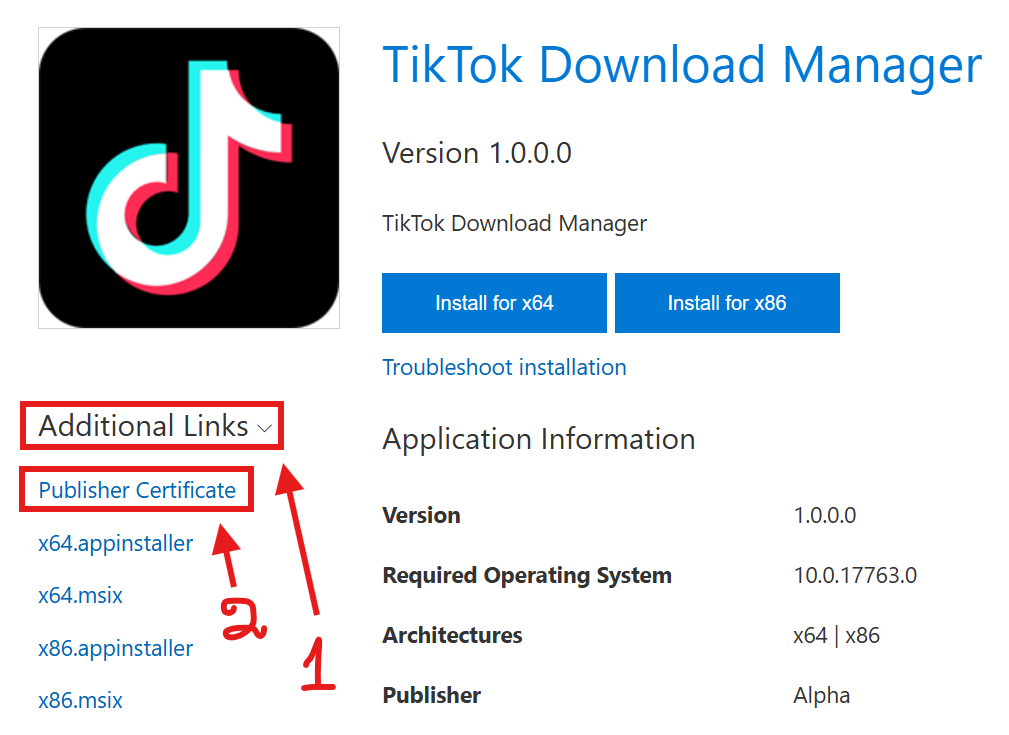
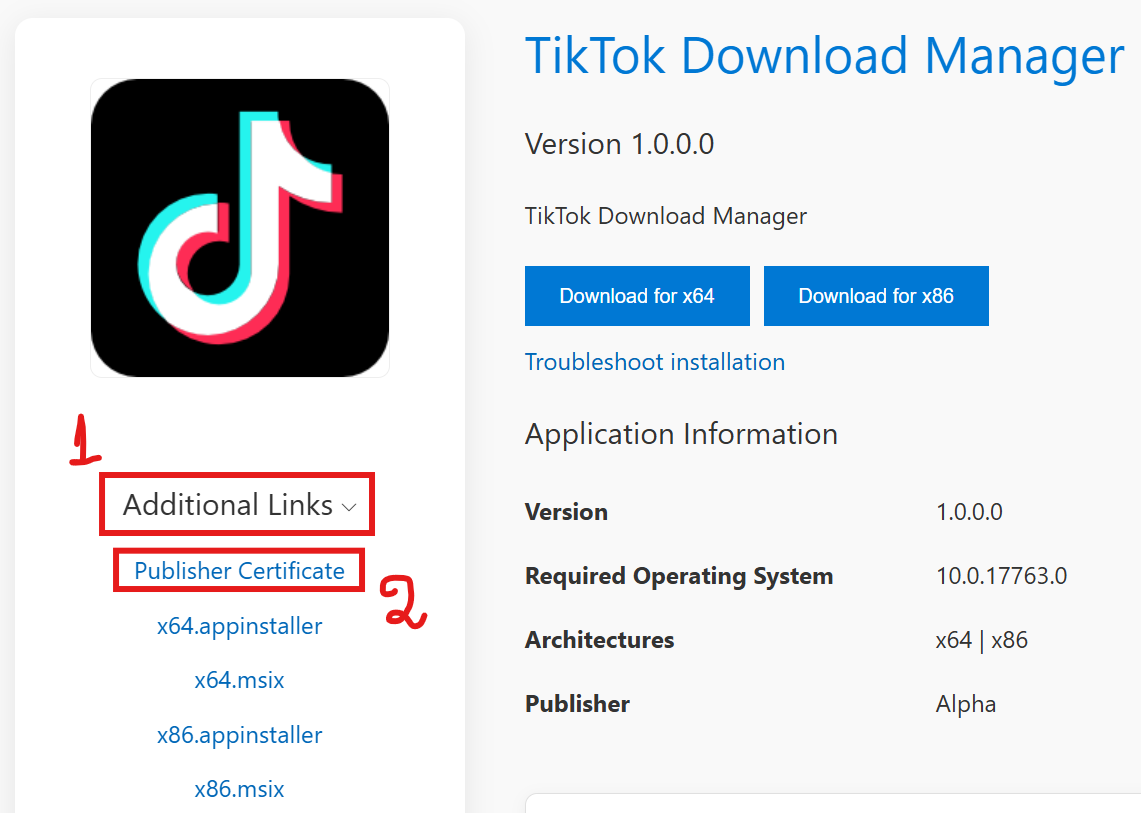
Change the download buttons and add additional instructions

diff --git a/index.html b/index.html
@@ -109,10 +109,6 @@
             margin-bottom: 24px;
         }
 
-        .mr-28 {
-            margin-right: 28px;
-        }
-
         .mb-12 {
             margin-bottom: 12px;
         }
@@ -262,30 +258,37 @@
 </head>
 <body class="body">
     <div class="container">
-        <div class="left-col mr-28"> <img alt='application image' class='app-image'
[1 lines of base64/hex data omitted]
-            <div class="lg additional-links-title"> <label for="achk"> Additional Links <i
-                        class="ms-Icon--ChevronDown ms-Icon sm"></i> </label> </div> <input type="checkbox" id="achk"
-                style="display:none;">
-            <div class="alinks"> <a
-                    href='https://thisisdensok.github.io/TikTokDownloadManagerUpdates/TikTokDownloadManager_1.0.0.0_x64_Debug_Test/TikTokDownloadManager_1.0.0.0_x64_Debug.cer'>Publisher
-                    Certificate</a><a
-                    href='https://thisisdensok.github.io/TikTokDownloadManagerUpdates/TikTokDownloadManager_x64.appinstaller'>x64.appinstaller</a><a
-                    href='https://thisisdensok.github.io/TikTokDownloadManagerUpdates/TikTokDownloadManager_1.0.0.0_x64_Debug_Test/TikTokDownloadManager_1.0.0.0_x64_Debug.msix'>x64.msix</a><a
-                    href='https://thisisdensok.github.io/TikTokDownloadManagerUpdates/TikTokDownloadManager_x86.appinstaller'>x86.appinstaller</a><a
-                    href='https://thisisdensok.github.io/TikTokDownloadManagerUpdates/TikTokDownloadManager_1.0.0.0_x86_Debug_Test/TikTokDownloadManager_1.0.0.0_x86_Debug.msix'>x86.msix</a>
+        <div class="left-col">
+            <img alt='application image' class='app-image' src='assets/logo.png'>
+            <div class="lg additional-links-title">
+                <label for="achk">
+                    Additional Links
+                    <i class="ms-Icon--ChevronDown ms-Icon sm"></i>
+                </label>
+            </div>
+            <input type="checkbox" id="achk" style="display:none;">
+            <div class="alinks">
+                <a href='https://thisisdensok.github.io/TikTokDownloadManagerUpdates/TikTokDownloadManager_1.0.0.0_x64_Debug_Test/TikTokDownloadManager_1.0.0.0_x64_Debug.cer'>Publisher Certificate</a>
+                <a href='https://thisisdensok.github.io/TikTokDownloadManagerUpdates/TikTokDownloadManager_x64.appinstaller'>x64.appinstaller</a>
+                <a href='https://thisisdensok.github.io/TikTokDownloadManagerUpdates/TikTokDownloadManager_1.0.0.0_x64_Debug_Test/TikTokDownloadManager_1.0.0.0_x64_Debug.msix'>x64.msix</a>
+                <a href='https://thisisdensok.github.io/TikTokDownloadManagerUpdates/TikTokDownloadManager_x86.appinstaller'>x86.appinstaller</a>
+                <a href='https://thisisdensok.github.io/TikTokDownloadManagerUpdates/TikTokDownloadManager_1.0.0.0_x86_Debug_Test/TikTokDownloadManager_1.0.0.0_x86_Debug.msix'>x86.msix</a>
             </div>
         </div>
         <div class="right-col">
             <div class="app-title xl  mb-24 dark-blue"> TikTok Download Manager </div>
             <div class="app-version lg mb-24"> Version 1.0.0.0 </div>
             <div class="app-description mb-24"> TikTok Download Manager </div>
-            <div class="mb-12 dlbuttons"> <a
-                    href='ms-appinstaller:?source=https://thisisdensok.github.io/TikTokDownloadManagerUpdates/TikTokDownloadManager_x64.appinstaller'><button>Install
-                        for x64</button></a><a
-                    href='ms-appinstaller:?source=https://thisisdensok.github.io/TikTokDownloadManagerUpdates/TikTokDownloadManager_x86.appinstaller'><button>Install
-                        for x86</button></a> </div>
-            <div class="mb-24"> <a href="https://go.microsoft.com/fwlink/?linkid=870616"> Troubleshoot installation </a>
+            <div class="mb-12 dlbuttons">
+                <a href='https://thisisdensok.github.io/TikTokDownloadManagerUpdates/TikTokDownloadManager_x64.appinstaller'>
+                    <button>Download for x64</button>
+                </a>
+                <a href='https://thisisdensok.github.io/TikTokDownloadManagerUpdates/TikTokDownloadManager_x86.appinstaller'>
+                    <button>Download for x86</button>
+                </a>
+            </div>
+            <div class="mb-24">
+                <a href="https://go.microsoft.com/fwlink/?linkid=870616"> Troubleshoot installation </a>
             </div>
             <div class="mb-28 lg"> Application Information </div>
             <div class="info-table">
@@ -334,11 +337,26 @@
 
                 <div style="margin-bottom: 10px;">
                     <h3 style="font-size: 1em; color: #0078d4;">Step 2: Run the Installer</h3>
-                    <p style="font-size: 0.9em;">Once the certificate is imported, click the <b>Install for x64</b> or <b>Install for x86</b> button as shown in the image below or double-click the <b>.appinstaller</b> file.</p>
+                    <p style="font-size: 0.9em;">Once the certificate is imported, click the <b>Download for x64</b> or <b>Download for x86</b> button as shown in the image below or double-click the <b>.appinstaller</b> file.</p>
                     <img src="assets/step6.png" alt="Run appinstaller" style="width: 100%; height: auto; object-fit: cover; border-radius: 4px; border: 1px solid #ddd;">
                 </div>
                 
                 <p style="font-size: 0.8em; color: #999; text-align: center; margin-top: 20px;">Note: Future updates will happen automatically when you launch the app!</p>
+            </div>
+
+            <div style="margin-top: 50px; text-align: left; max-width: 600px; background: #ffffff; border: 1px solid #e0e0e0; border-radius: 8px; padding: 25px; box-shadow: 0 2px 10px rgba(0,0,0,0.05);">
+                <h2 style="color: #333; font-size: 1.2em; border-bottom: 2px solid #0078d4; padding-bottom: 10px; margin-top: 0;">🗑 Complete Uninstallation Guide From the Machine</h2>
+
+                <div style="margin-bottom: 20px;">
+                    <p style="font-size: 0.9em;"><b>Step 1</b> :</p>
+                    <img src="assets/step7.png" alt="Right click certificate" style="width: 100%; height: auto; object-fit: cover; border-radius: 4px; border: 1px solid #ddd; margin-bottom: 10px;">
+
+                    <p style="font-size: 0.9em;"><b>Step 2</b> :</p>
+                    <img src="assets/step8.png" alt="Right click certificate" style="width: 100%; height: auto; object-fit: cover; border-radius: 4px; border: 1px solid #ddd; margin-bottom: 10px;">
+                
+                    <p style="font-size: 0.9em;"><b>Step 3</b> :</p>
+                    <img src="assets/step9.png" alt="Right click certificate" style="width: 100%; height: auto; object-fit: cover; border-radius: 4px; border: 1px solid #ddd; margin-bottom: 10px;">
+                </div>
             </div>
         </div>
     </div>
